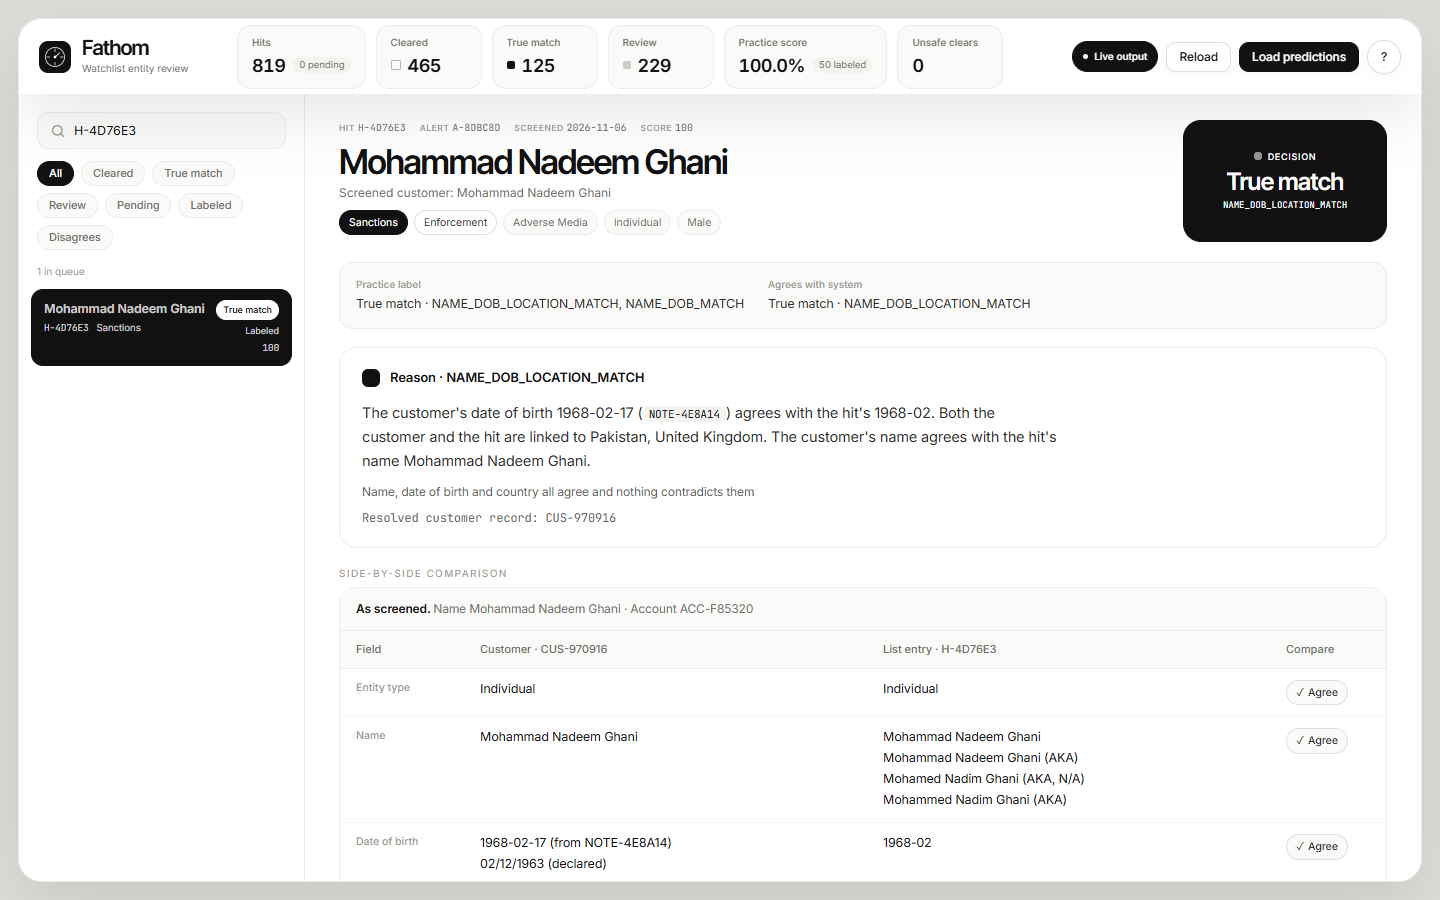
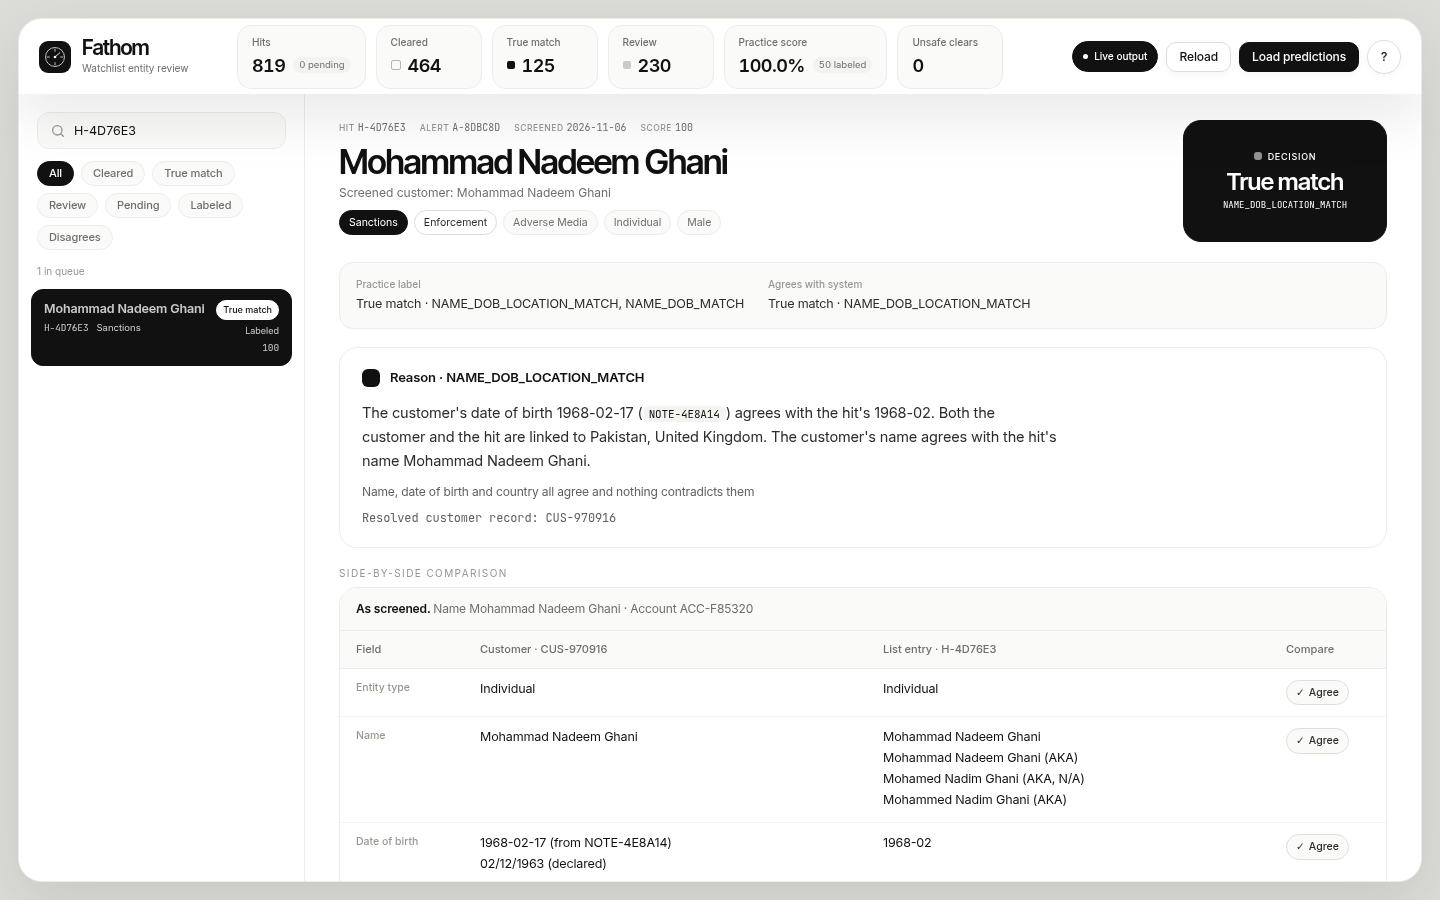
README: recapture analyst-desk screenshots on the current UI and run (464/125/230)

diff --git a/README.md b/README.md
@@ -6,7 +6,7 @@
 | --- | --- | --- |
 | **True match.** H-582410: name, DOB and Spain agree; every fact cites its record (NOTE-14E25A, CUS-377745). | **Cleared.** H-13E1CF: the customer was born in 2007, so was at most 12 at the hit’s 2020 report. | **Review.** H-0F3C96: three customers fit the alert and lead to different decisions, so a person decides. |
 
-*Screenshots of the analyst desk (`ui/`), captured on an earlier run whose header shows 465 / 125 / 229; the current run gives 464 / 125 / 230 and the same decisions for these three hits.*
+*Screenshots of the analyst desk (`ui/`) on the current run: 819 hits, 464 cleared, 125 confirmed, 230 for review.*
 
 ## Judges start here
 
